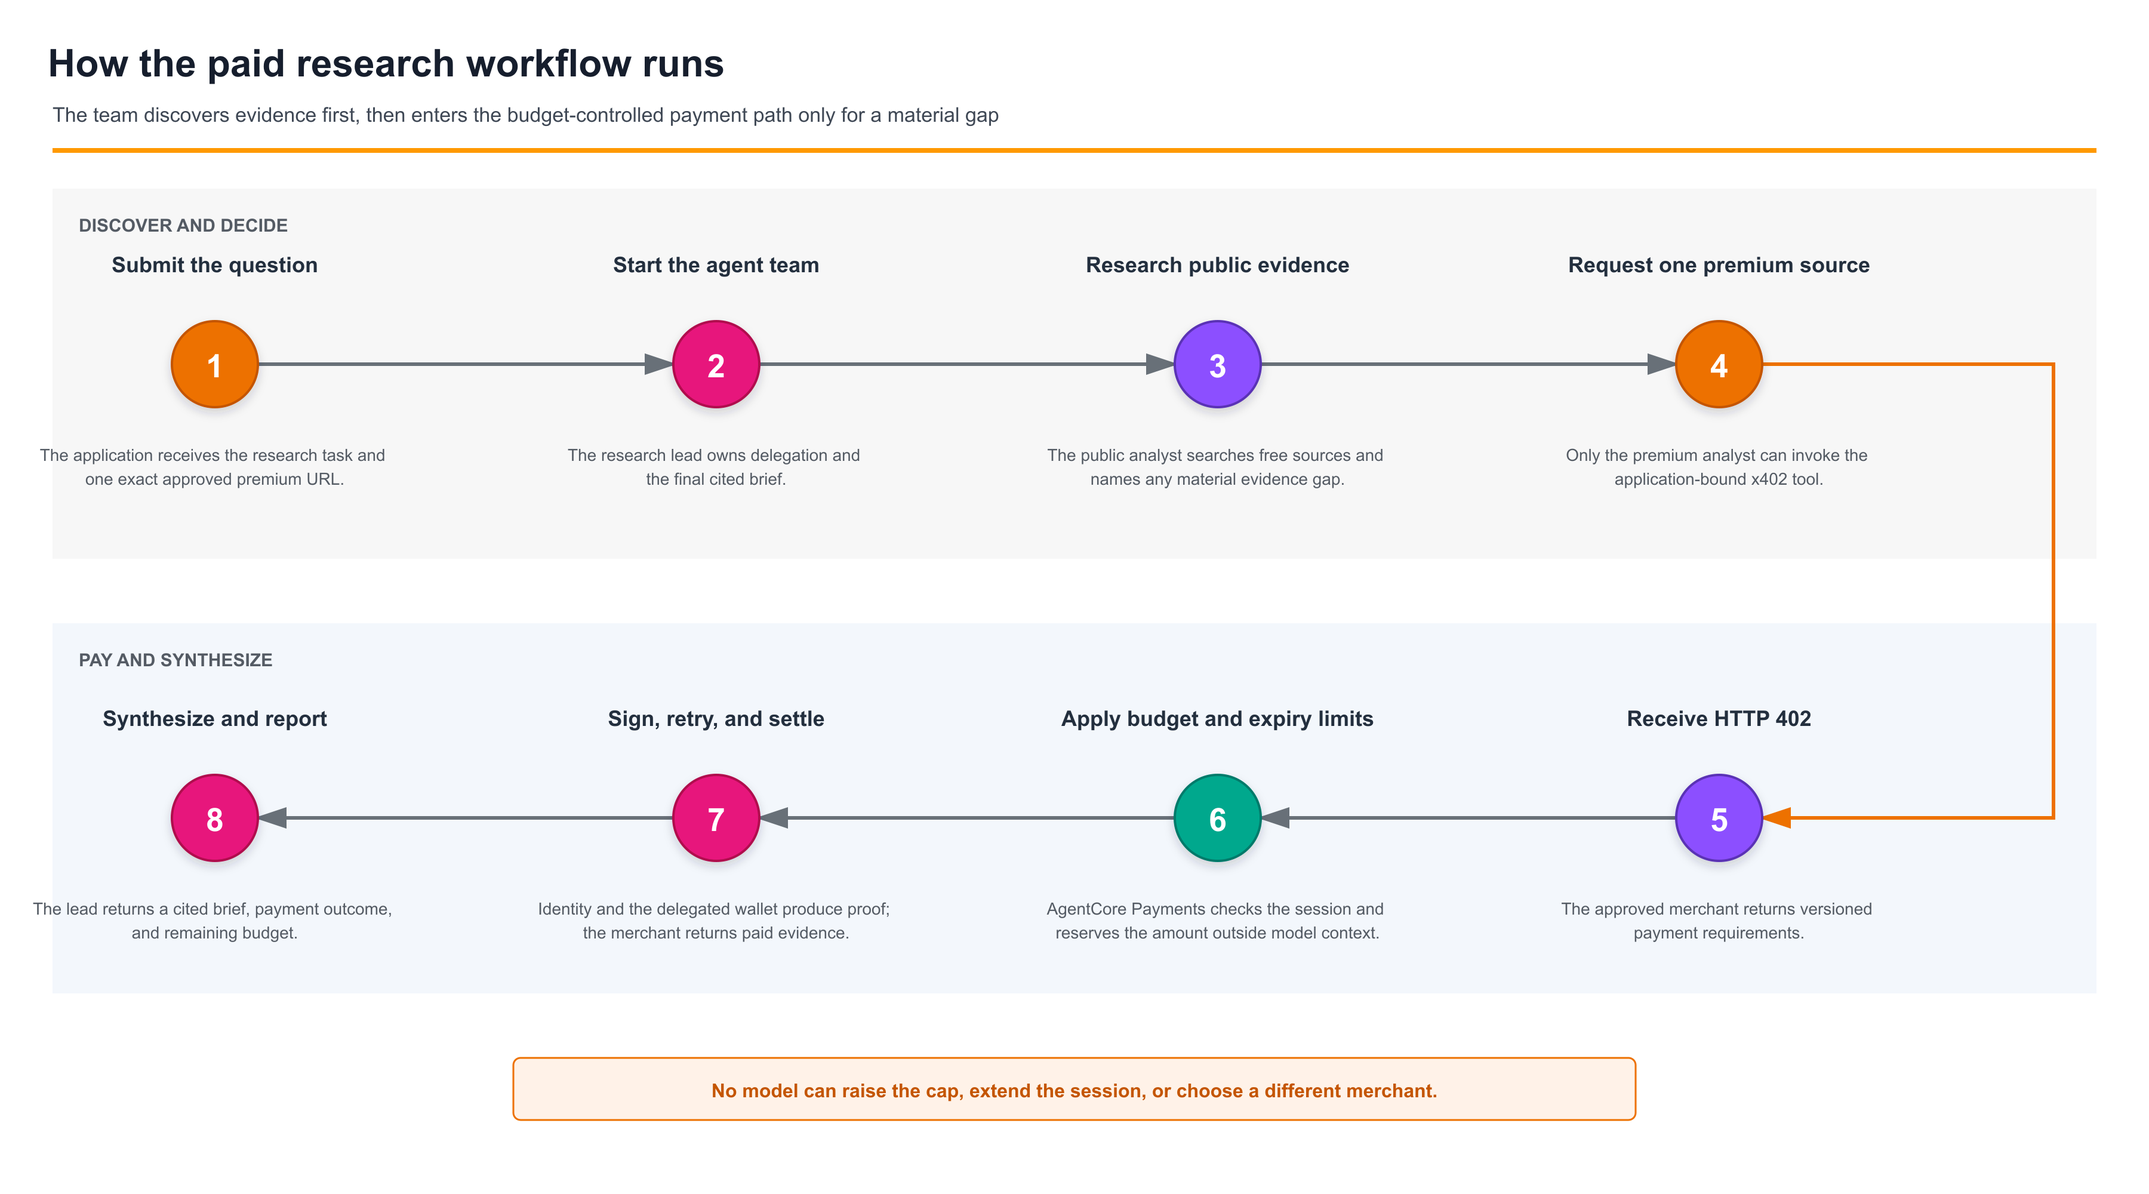
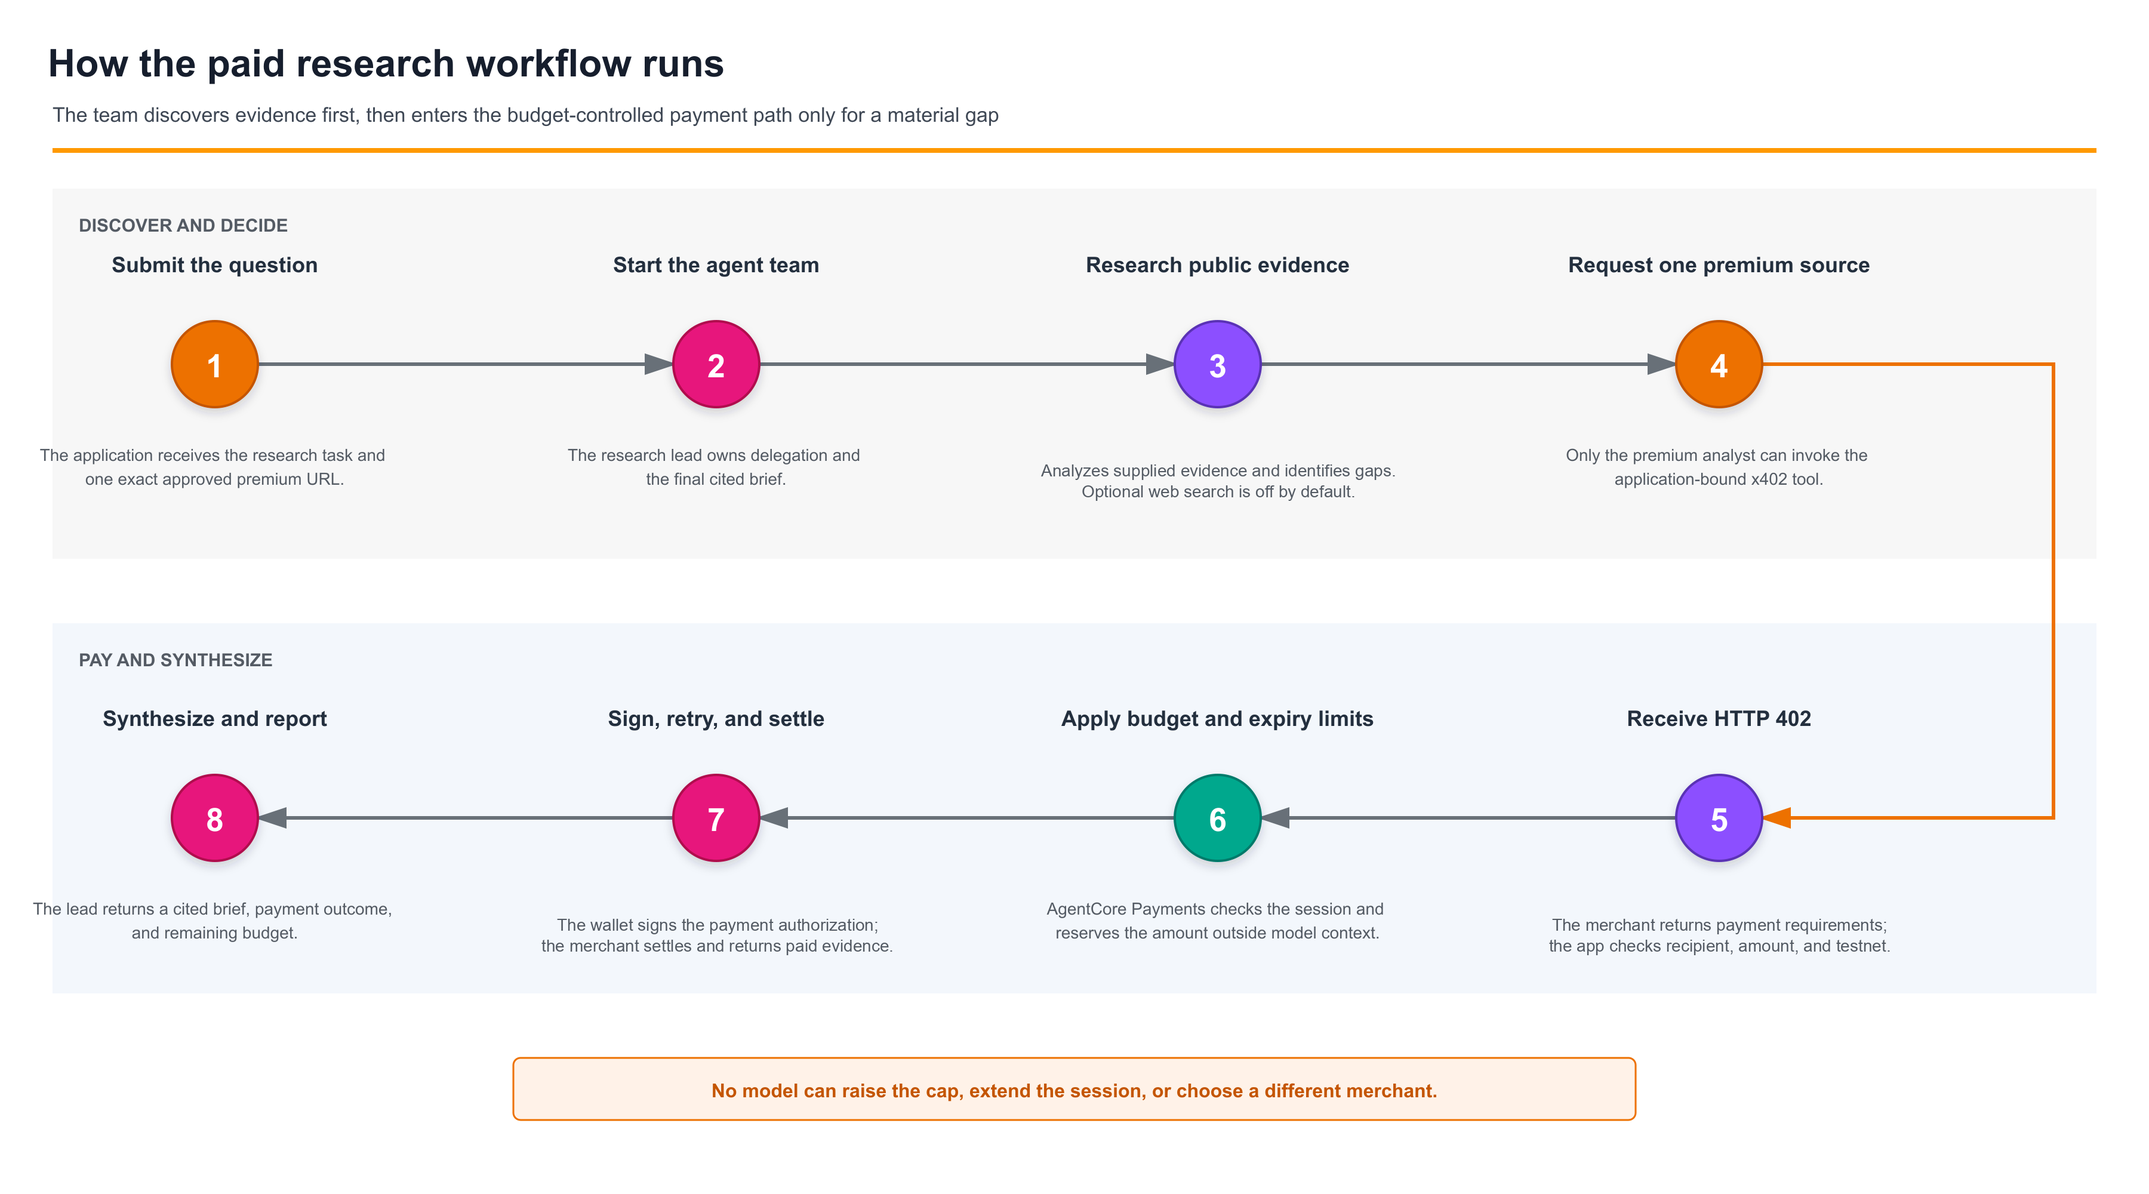
Address paid research review feedback

Changed region(s): [[0.7156, 0.744, 0.8711, 0.806], [0.2489, 0.744, 0.4044, 0.806], [0.4978, 0.372, 0.6533, 0.434]]

diff --git a/01-features/08-agents-that-transact/02-use-cases/pay-for-research-with-openai-agent/payment.py b/01-features/08-agents-that-transact/02-use-cases/pay-for-research-with-openai-agent/payment.py
@@ -2,6 +2,7 @@
 
 from __future__ import annotations
 
+import base64
 import ipaddress
 import json
 import os
@@ -87,6 +88,15 @@ class X402PaymentClient:
         if not self.allowed_hosts:
             raise ValueError("PAID_RESEARCH_ALLOWED_HOSTS must contain an exact host")
 
+        self.allowed_recipients = {
+            recipient.strip().lower()
+            for recipient in _required_setting("PAID_RESEARCH_ALLOWED_RECIPIENTS").split(",")
+            if recipient.strip()
+        }
+        self.max_amount = int(_required_setting("PAID_RESEARCH_MAX_AMOUNT"))
+        if not self.allowed_recipients or self.max_amount <= 0:
+            raise ValueError("Configure approved recipients and a positive per-payment maximum")
+
         self.payment_manager = create_payment_manager(manager_arn)
         self._result: str | None = None
         # PaymentManager is not thread-safe. Also prevent repeated tool calls
@@ -132,6 +142,38 @@ class X402PaymentClient:
         address = next((address for address in addresses if ipaddress.ip_address(address).version == 4), addresses[0])
         return parsed, address
 
+    def _validate_challenge(self, response: httpx.Response) -> None:
+        """Check every offered payment before the SDK selects one and signs."""
+        try:
+            # The SDK prioritizes the v2 header over the v1 JSON body.
+            header = response.headers.get("payment-required")
+            challenge = json.loads(base64.b64decode(header, validate=True)) if header is not None else response.json()
+            version = challenge["x402Version"]
+            accepts = challenge["accepts"]
+            if type(version) is not int or version not in (1, 2) or not isinstance(accepts, list) or not accepts:
+                raise ValueError
+            # This sample authorizes exact USDC payments on Base Sepolia only.
+            # Reject alternate protocols so they cannot bypass the x402 checks.
+            if "www-authenticate" in response.headers:
+                raise ValueError
+            for offer in accepts:
+                amount = offer["maxAmountRequired" if version == 1 else "amount"]
+                if (
+                    offer["scheme"] != "exact"
+                    or offer["network"] not in {"base-sepolia", "eip155:84532"}
+                    or offer["asset"].lower() != "0x036cbd53842c5426634e7929541ec2318f3dcf7e"
+                    or offer["payTo"].lower() not in self.allowed_recipients
+                    or not isinstance(amount, str)
+                    or not amount.isascii()
+                    or not amount.isdecimal()
+                    or not 0 < int(amount) <= self.max_amount
+                ):
+                    raise ValueError
+        except (ValueError, TypeError, KeyError, AttributeError) as error:
+            raise ValueError(
+                "Payment challenge is invalid or exceeds the approved recipient, amount, or testnet policy"
+            ) from error
+
     def fetch(self) -> str:
         """Fetch the bound source once, retaining successes and terminal failures."""
         with self._lock:
@@ -166,6 +208,13 @@ class X402PaymentClient:
                 body=response.text[:MAX_BODY_CHARS],
                 payment_made=False,
                 payment_attempts=0,
+            )
+
+        try:
+            self._validate_challenge(response)
+        except ValueError as error:
+            return self._json(
+                ok=False, source_url=url, status_code=402, error=str(error), payment_made=False, payment_attempts=0
             )
 
         try:

diff --git a/01-features/08-agents-that-transact/README.md b/01-features/08-agents-that-transact/README.md
@@ -9,9 +9,7 @@ Amazon Bedrock AgentCore payments is a fully managed service that enables microt
 
 Learn more about the latest features in this [blog post](https://aws.amazon.com/blogs/machine-learning/amazon-bedrock-agentcore-payments-is-now-generally-available-enabling-agents-to-transact-safely-and-autonomously-at-scale/).
 
-> **Testnet by default.** Tutorials 00–07 use test networks. Tutorial 08 supports
-> Tempo testnet and optional mainnet merchants; Tutorial 09 runs on Base mainnet.
-> Mainnet paths transfer real funds—read each tutorial's warning before opting in.
+> **Testnet only.** All samples use Base Sepolia (Ethereum) or Solana Devnet with free USDC from [faucet.circle.com](https://faucet.circle.com/). Testnet USDC has no real-world value.
 
 ## Start here
 
@@ -23,17 +21,13 @@ New? There are various ways to get started with [AgentCore payments](https://doc
 
 | Folder | What's inside |
 |--------|---------------|
-| [`00-getting-started/`](00-getting-started/) | Ten step-by-step tutorials covering setup, local and deployed agents, wallet operations, x402, MPP, and metered payments |
+| [`00-getting-started/`](00-getting-started/) | Eight step-by-step tutorials covering setup → local agents → runtime deploy → wallet ops → gateway → browser payments → memory + payments → multi-agent orchestration |
 | [`01-payments-skills-and-cli/`](01-payments-skills-and-cli/) | Add AgentCore x402 payments to an agent via the `aws-agents` coding-assistant plugin (existing agent, new agent, or OpenClaw — no coding assistant) |
-| [`02-use-cases/`](02-use-cases/) | Real-world end-to-end payment flows for local and AgentCore Runtime-hosted agents |
+| [`02-use-cases/`](02-use-cases/) | Real-world end-to-end use cases deployed on AgentCore runtime |
 
 ## How this tree is organized
 
-Tutorials in `00-getting-started/` build on each other — start with Tutorial 00
-which provisions the payment stack, then run any of 01–09 in the order that
-fits your use case. `01-payments-skills-and-cli/` is a coding-assistant-driven
-path that adds payments to an agent for you. `02-use-cases/` contains complete
-end-to-end payment flows for local and AgentCore Runtime-hosted agents.
+Tutorials in `00-getting-started/` build on each other — start with Tutorial 00 which provisions the payment stack, then run any of 01–07 in the order that fits your use case. `01-payments-skills-and-cli/` is a coding-assistant-driven path that adds payments to an agent for you, rather than a set of tutorials to read through. `02-use-cases/` contains production-style deployments that demonstrate complete end-to-end payment flows.
 
 ## Finding things
 
@@ -46,8 +40,6 @@ end-to-end payment flows for local and AgentCore Runtime-hosted agents.
 - **Browser + payment pattern** → `00-getting-started/05-agent-with-browser-tool-pay-for-content/`
 - **Memory-aware agent (skip redundant paid calls)** → `00-getting-started/06-research-agent-with-payment-memory/`
 - **Multi-agent with per-agent budgets** → `00-getting-started/07-multi-agent-payment-orchestrator/`
-- **Machine Payments Protocol (MPP)** → `00-getting-started/08-mpp-machine-payments-protocol/`
-- **Metered x402 `upto` payments** → `00-getting-started/09-pay-per-use-with-upto/`
 - **Add payments to an existing agent (coding assistant)** → `01-payments-skills-and-cli/add-to-existing-agent/`
 - **Scaffold a new agent that can transact (coding assistant)** → `01-payments-skills-and-cli/build-new-agent-that-can-transact/`
 - **OpenClaw agent with payments (no coding assistant)** → `01-payments-skills-and-cli/converse-with-openclaw-agent/`
@@ -60,7 +52,6 @@ end-to-end payment flows for local and AgentCore Runtime-hosted agents.
 ## Resources
 
 - [AgentCore payments documentation](https://docs.aws.amazon.com/bedrock-agentcore/latest/devguide/payments.html)
-- [AgentCore Payments security best practices](https://docs.aws.amazon.com/bedrock-agentcore/latest/devguide/payments-security-best-practices.html)
 - [Launch blog post](https://aws.amazon.com/blogs/machine-learning/agents-that-transact-introducing-amazon-bedrock-agentcore-payments-built-with-coinbase-and-stripe/)
 - [Coinbase announcement](https://www.coinbase.com/en-ca/blog/introducing-amazon-bedrock-agentcore-payments-powered-by-x402-and-coinbase)
 - [Stripe announcement](https://stripe.com/newsroom/news/aws-stripe-agentcore-privy)
@@ -70,7 +61,7 @@ end-to-end payment flows for local and AgentCore Runtime-hosted agents.
 
 - Python 3.10+
 - AWS CLI configured (`aws sts get-caller-identity` to verify)
-- AWS account with access to AgentCore payments
+- AWS account with access to AgentCore payments preview
 - Wallet provider credentials — Coinbase CDP or Stripe (Privy) — see `00-getting-started/00-setup-agentcore-payments/providers/`
 
 ## Running the Python Scripts
@@ -90,8 +81,7 @@ python 00-getting-started/01-agents-payments-and-limits/langgraph_payment_agent.
 
 ## Security
 
-- Tutorials 00–07 use test networks. Tutorial 08 supports Tempo testnet and optional
-  mainnet merchants; Tutorial 09 requires explicit opt-in and uses Base mainnet.
+- All tutorials use **testnet only** for learning and enablement purpose(Base Sepolia / Solana Devnet). No real funds are involved.
 - Never commit `.env` files or private keys. Use AWS Secrets Manager for production credentials.
 - Follow IAM least-privilege: separate ControlPlaneRole, ManagementRole, and ProcessPaymentRole.
 - Follow [AWS shared responsibility model](https://aws.amazon.com/compliance/shared-responsibility-model/)

diff --git a/01-features/08-agents-that-transact/02-use-cases/pay-for-research-with-openai-agent/README.md b/01-features/08-agents-that-transact/02-use-cases/pay-for-research-with-openai-agent/README.md
@@ -59,13 +59,14 @@ HTTP requests and exposes them as a function tool.
 
 - Python 3.10+ and AWS CLI v2.
 - An AWS execution profile with access to the configured OpenAI model on Bedrock.
-- For paid research, a payment manager, a `READY` connector, and an active,
+- For paid research, a payment manager, a configured connector, and an active,
   funded, delegated testnet wallet. Complete the
   [one-time payment setup](#one-time-payment-setup) below if needed.
 - For either Coinbase setup mode, activate the
   [Coinbase Marketplace subscription][marketplace] after reviewing its pricing
-  and terms. An active wallet is not sufficient if the connector reports
-  `AWS_MARKETPLACE_SUBSCRIPTION_REQUIRED`.
+  and terms. After subscribing, `AWS_MARKETPLACE_SUBSCRIPTION_REQUIRED` may
+  persist in connector status even when payments work. Verify with one capped
+  purchase; a successful wallet setup or proof alone does not establish settlement.
 
 Before configuring payment access, read the
 [AgentCore Payments security best practices][security]. In particular:
@@ -78,9 +79,10 @@ Before configuring payment access, read the
 - Keep wallet-provider credentials in AgentCore Identity, not in this sample,
   agent prompts, or tool arguments.
 - Use conservative budgets and short sessions, and require end-user delegation.
-- For production, add merchant-recipient (`payTo`) validation, provider policies,
-  and audit logging as described in the security guide. This sample's URL checks
-  and session limits are not a complete production security boundary.
+- The sample checks merchant recipients (`payTo`) and a per-payment maximum
+  before signing. For production, also configure provider policies and audit
+  logging as described in the security guide. These sample controls are not a
+  complete production security boundary.
 
 [setup]: ../../00-getting-started/00-setup-agentcore-payments/
 [providers]: ../../00-getting-started/00-setup-agentcore-payments/providers/
@@ -104,8 +106,9 @@ The existing [shared setup tutorial][setup] provides the infrastructure walkthro
    [provider setup guide][providers]. Follow the GA quick start for current
    credential-generation and project-level delegated-signing steps.
 2. [Create the payment manager and connector][setup-manager]. Complete the
-   Coinbase authorization flow if using Quick create, then confirm the connector
-   is `READY` before proceeding.
+   Coinbase authorization flow if using Quick create and activate the Marketplace
+   subscription. Check connector status, accounting for the stale subscription
+   status described above.
 3. [Create the per-user wallet][setup-wallet]. Use the same user ID throughout
    setup and research, and a real email address for wallet consent.
    For the default Genesis Block merchant, choose `NETWORK=ETHEREUM` and
@@ -119,6 +122,11 @@ With the GA SDK, the Coinbase WalletHub `redirectUrl` is inside
 `paymentInstrumentDetails.embeddedCryptoWallet`. Wallet creation is asynchronous:
 if the address or URL is not ready, retrieve the same instrument with
 `get_payment_instrument` rather than creating another wallet.
+
+If `ProcessPayment` reports "Delegated signing grant is not active", reopen the
+existing wallet's WalletHub `redirectUrl` and renew the end-user permission. An
+`ACTIVE` instrument and a funded balance do not establish that signing consent
+is still active. Do not create another wallet to fix an expired grant.
 
 Keep the manager ARN, instrument ID, and user ID. Return to this sample and copy
 only those identifiers in [step 2](#2-configure-payment-identifiers) below.
@@ -169,7 +177,12 @@ Copy these non-secret identifiers from the shared setup into `.env`:
 
 Set `PAID_RESEARCH_URL` to the exact approved HTTPS endpoint and include its
 hostname in `PAID_RESEARCH_ALLOWED_HOSTS`. The default endpoint is the Genesis
-Block Base Sepolia merchant. Do not copy provider credentials into this file.
+Block Base Sepolia merchant. Set `PAID_RESEARCH_ALLOWED_RECIPIENTS` to the
+approved, comma-separated merchant wallet addresses and `PAID_RESEARCH_MAX_AMOUNT`
+to the per-payment cap in USDC base units (six decimals: `10000` = 0.01 test
+USDC). The supplied recipient is for the default merchant. Verify any recipient
+change independently; do not automatically trust a new address from a 402 response.
+Do not copy provider credentials into this file.
 
 `AWS_REGION` selects the model region. Payment clients use the region in
 `PAYMENT_MANAGER_ARN`, independently of the model endpoint.
@@ -246,6 +259,12 @@ The adapter requires an allowed HTTPS host, rejects private/non-routable
 addresses, and pins both requests to the same validated IP while retaining TLS
 hostname verification. Requests use fresh clients without redirects or
 environment proxies.
+
+Before asking AgentCore to sign, the adapter checks every x402 `accepts` entry
+against the recipient allowlist and per-payment cap. All offers must be exact
+USDC payments on Base Sepolia; malformed, mainnet, other-token, and alternate
+protocol challenges are rejected without signing. Checking every offer keeps
+the SDK's network selection within the same approved policy.
 
 There is at most one signing attempt and one paid GET per research run.
 Repeated calls return the recorded result, including failures. A successful

diff --git a/01-features/08-agents-that-transact/00-getting-started/README.md b/01-features/08-agents-that-transact/00-getting-started/README.md
@@ -1,12 +1,11 @@
 # AgentCore payments — Getting Started Tutorials
 
 Step-by-step Python tutorials for building payment-enabled AI agents with **Amazon Bedrock
-AgentCore payments** — payment protocol orchestration, configurable spend limits, and third-party
+AgentCore payments** —  protocol orchestration, configurable spend limits, and third-party
 wallet integration (Coinbase CDP, Stripe/Privy).
 
-> **Testnet by default.** Tutorials 00–07 use Base Sepolia or Solana Devnet. Tutorial 08
-> supports Tempo testnet and optional mainnet merchants; Tutorial 09 runs on Base mainnet.
-> Mainnet paths transfer real funds—read each tutorial's warning before opting in.
+> **Testnet by default.** Tutorials 00–07 use Base Sepolia (Ethereum) or Solana Devnet with free USDC
+> from [faucet.circle.com](https://faucet.circle.com/). Testnet USDC has no monetary value.
 >
 > **Tutorial 09 is the exception.** It runs on Base mainnet and transfers **real USDC** from your
 > wallet. It refuses to run until you opt in explicitly — read
@@ -34,7 +33,7 @@ the SDK to build paying agents on top of it.**
 
 ## Start here
 
-Start with Tutorial 00; then work through 01–09 (in order, or dip into any that interests you — each
+Start with Tutorial 00; then work through 01–07 (in order, or dip into any that interests you — each
 stands alone). Each folder's `README.md` is a self-contained walkthrough — you run the `agentcore`
 commands and Python snippets yourself and learn each piece as you go.
 
@@ -62,7 +61,7 @@ numbered walkthrough, an inspect step, troubleshooting, and clean-up — so once
 
 ## Tutorials
 
-Run Tutorial 00 first; then 01–09 in any order. Each folder's README opens with a
+Run Tutorial 00 first; then 01–07 and 09 in any order. Each folder's README opens with a
 **Reads / Does** strip so you can see its inputs and outputs at a glance.
 
 | # | Folder | What you build | Provisioning |
@@ -75,8 +74,9 @@ Run Tutorial 00 first; then 01–09 in any order. Each folder's README opens wit
 | 05 | [`05-agent-with-browser-tool-pay-for-content/`](05-agent-with-browser-tool-pay-for-content/) | Pay 402 paywalls inside a browser session | SDK |
 | 06 | [`06-research-agent-with-payment-memory/`](06-research-agent-with-payment-memory/) | Add AgentCore Memory to skip redundant paid calls | SDK |
 | 07 | [`07-multi-agent-payment-orchestrator/`](07-multi-agent-payment-orchestrator/) | Multiple agents, separate wallets, per-agent budgets | CLI + SDK |
-| 08 | [`08-mpp-machine-payments-protocol/`](08-mpp-machine-payments-protocol/) | Pay MPP-protected services on testnet or mainnet | SDK |
 | 09 | [`09-pay-per-use-with-upto/`](09-pay-per-use-with-upto/) | Pay a metered seller with the x402 `upto` scheme (real USDC on Base mainnet) | SDK |
+
+MPP Tutorial is coming soon !
 
 ## Which tutorial do I need?
 
@@ -86,7 +86,6 @@ Run Tutorial 00 first; then 01–09 in any order. Each folder's README opens wit
 - **Paying for web/article content?** → 05 (Browser).
 - **Personalized agentic payments with memory?** → 06 (Memory).
 - **Several agents with independent budgets?** → 07 (needs multi-provider setup).
-- **Paying an MPP-protected service?** → 08.
 - **Using the OpenAI Agents SDK?** → 01 locally, then 02 to deploy.
 - **Price not known until the work is done?** → 09 (`upto`, real funds on mainnet).
 

diff --git a/CONTRIBUTORS.md b/CONTRIBUTORS.md
@@ -133,7 +133,6 @@
 - Deepak Singh (deepaxs)
 - Irene Arroyo Delgado (iiarroyo)
 - rmncardoso
-- Bryan Conklin (thor4)
 - mccartnick
 - ach1ntya
 - Shruthi Rajoli (rajolishruthi)
